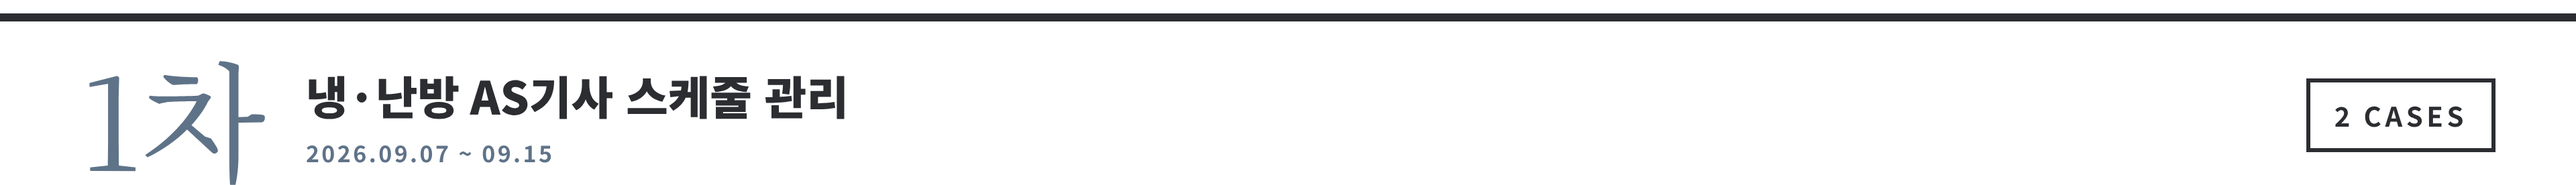
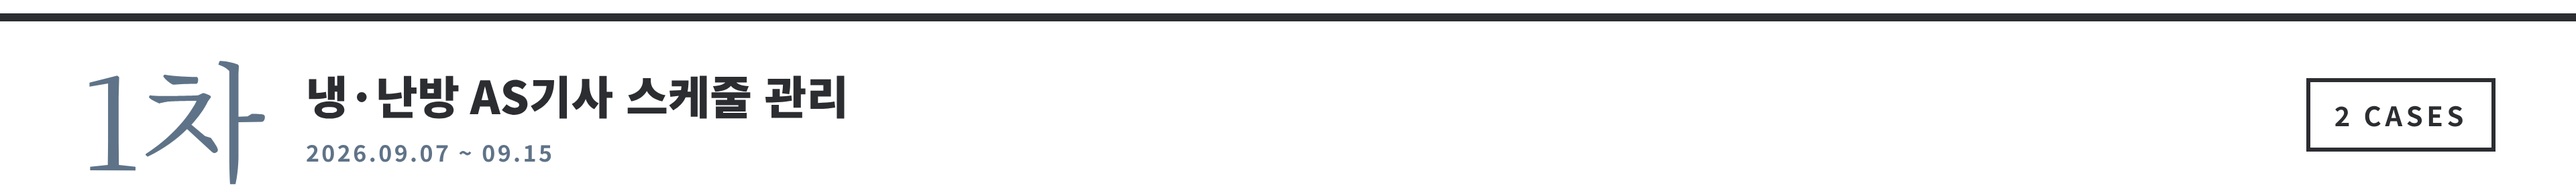
v32: 하단 여백 8px

diff --git a/src/v32/ph-01.html b/src/v32/ph-01.html
@@ -1,5 +1,5 @@
-<!doctype html><meta charset=utf-8><style>*{margin:0;padding:0;box-sizing:border-box}body{width:1920px;height:138px;background:#fff;font-family:'Noto Sans CJK KR';color:#2B2D31;overflow:hidden}
-.r{position:absolute;left:0;right:0;top:10px;border-top:6px solid #2B2D31;padding:22px 60px 4px;display:flex;align-items:center;gap:30px}
+<!doctype html><meta charset=utf-8><style>*{margin:0;padding:0;box-sizing:border-box}body{width:1920px;height:146px;background:#fff;font-family:'Noto Sans CJK KR';color:#2B2D31;overflow:hidden}
+.r{position:absolute;left:0;right:0;top:10px;border-top:6px solid #2B2D31;padding:22px 60px 12px;display:flex;align-items:center;gap:30px}
 .n{font-family:'Noto Serif CJK KR';font-size:96px;font-weight:400;line-height:1;color:#5F7388}
 .t{font-size:34px;font-weight:900;display:block}.p{font-size:17px;font-weight:700;letter-spacing:.1em;color:#5F7388;display:block;margin-top:6px}
 .b{margin-left:auto;font-size:20px;font-weight:700;letter-spacing:.14em;border:3px solid #2B2D31;padding:10px 18px}</style>

diff --git a/src/v32/ph-02.html b/src/v32/ph-02.html
@@ -1,5 +1,5 @@
-<!doctype html><meta charset=utf-8><style>*{margin:0;padding:0;box-sizing:border-box}body{width:1920px;height:156px;background:#fff;font-family:'Noto Sans CJK KR';color:#2B2D31;overflow:hidden}
-.r{position:absolute;left:0;right:0;top:28px;border-top:6px solid #2B2D31;padding:22px 60px 4px;display:flex;align-items:center;gap:30px}
+<!doctype html><meta charset=utf-8><style>*{margin:0;padding:0;box-sizing:border-box}body{width:1920px;height:164px;background:#fff;font-family:'Noto Sans CJK KR';color:#2B2D31;overflow:hidden}
+.r{position:absolute;left:0;right:0;top:28px;border-top:6px solid #2B2D31;padding:22px 60px 12px;display:flex;align-items:center;gap:30px}
 .n{font-family:'Noto Serif CJK KR';font-size:96px;font-weight:400;line-height:1;color:#5F7388}
 .t{font-size:34px;font-weight:900;display:block}.p{font-size:17px;font-weight:700;letter-spacing:.1em;color:#5F7388;display:block;margin-top:6px}
 .b{margin-left:auto;font-size:20px;font-weight:700;letter-spacing:.14em;border:3px solid #2B2D31;padding:10px 18px}</style>

diff --git a/src/v32/ph-03.html b/src/v32/ph-03.html
@@ -1,5 +1,5 @@
-<!doctype html><meta charset=utf-8><style>*{margin:0;padding:0;box-sizing:border-box}body{width:1920px;height:156px;background:#fff;font-family:'Noto Sans CJK KR';color:#2B2D31;overflow:hidden}
-.r{position:absolute;left:0;right:0;top:28px;border-top:6px solid #2B2D31;padding:22px 60px 4px;display:flex;align-items:center;gap:30px}
+<!doctype html><meta charset=utf-8><style>*{margin:0;padding:0;box-sizing:border-box}body{width:1920px;height:164px;background:#fff;font-family:'Noto Sans CJK KR';color:#2B2D31;overflow:hidden}
+.r{position:absolute;left:0;right:0;top:28px;border-top:6px solid #2B2D31;padding:22px 60px 12px;display:flex;align-items:center;gap:30px}
 .n{font-family:'Noto Serif CJK KR';font-size:96px;font-weight:400;line-height:1;color:#5F7388}
 .t{font-size:34px;font-weight:900;display:block}.p{font-size:17px;font-weight:700;letter-spacing:.1em;color:#5F7388;display:block;margin-top:6px}
 .b{margin-left:auto;font-size:20px;font-weight:700;letter-spacing:.14em;border:3px solid #2B2D31;padding:10px 18px}</style>

diff --git a/src/v32/gen.py b/src/v32/gen.py
@@ -7,9 +7,9 @@ d=open('../v14/ph-03.html').read()
 m=re.search(r'class="p">([^<]*)',d); rows[2]=rows[2][:3]+(m.group(1),)+rows[2][4:]
 t=re.search(r'class="t">([^<]*)',d).group(1); rows[2]=rows[2][:2]+(t,)+rows[2][3:]
 for n,s,title,date,c,gap in rows:
-    H=gap+6+22+96+4
+    H=gap+6+22+96+12
     html=f'''<!doctype html><meta charset=utf-8><style>*{{margin:0;padding:0;box-sizing:border-box}}body{{width:1920px;height:{H}px;background:#fff;font-family:'Noto Sans CJK KR';color:#2B2D31;overflow:hidden}}
-.r{{position:absolute;left:0;right:0;top:{gap}px;border-top:6px solid #2B2D31;padding:22px 60px 4px;display:flex;align-items:center;gap:30px}}
+.r{{position:absolute;left:0;right:0;top:{gap}px;border-top:6px solid #2B2D31;padding:22px 60px 12px;display:flex;align-items:center;gap:30px}}
 .n{{font-family:'Noto Serif CJK KR';font-size:96px;font-weight:400;line-height:1;color:#5F7388}}
 .t{{font-size:34px;font-weight:900;display:block}}.p{{font-size:17px;font-weight:700;letter-spacing:.1em;color:#5F7388;display:block;margin-top:6px}}
 .b{{margin-left:auto;font-size:20px;font-weight:700;letter-spacing:.14em;border:3px solid #2B2D31;padding:10px 18px}}</style>
